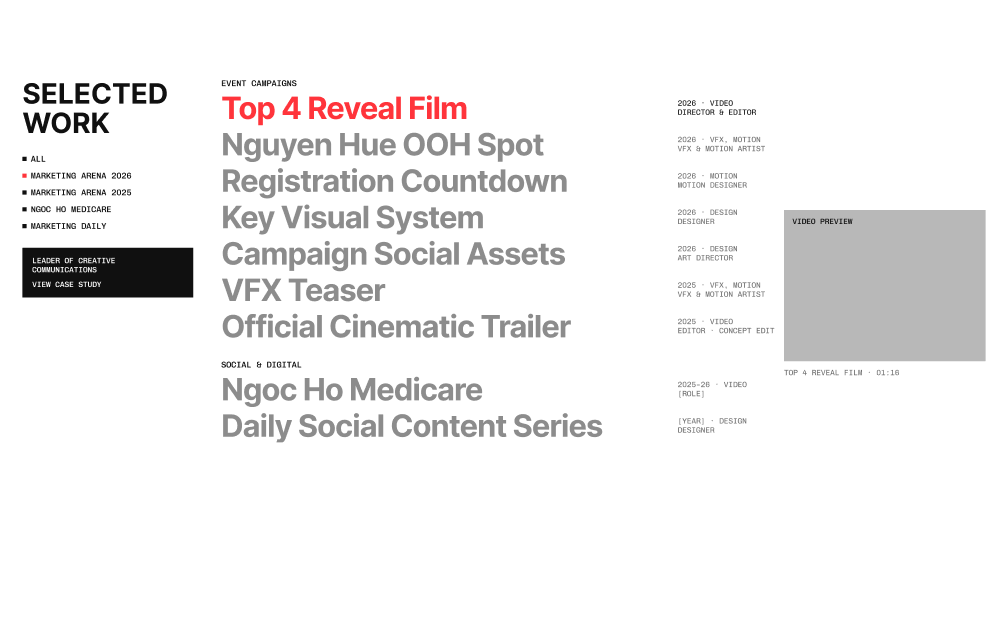
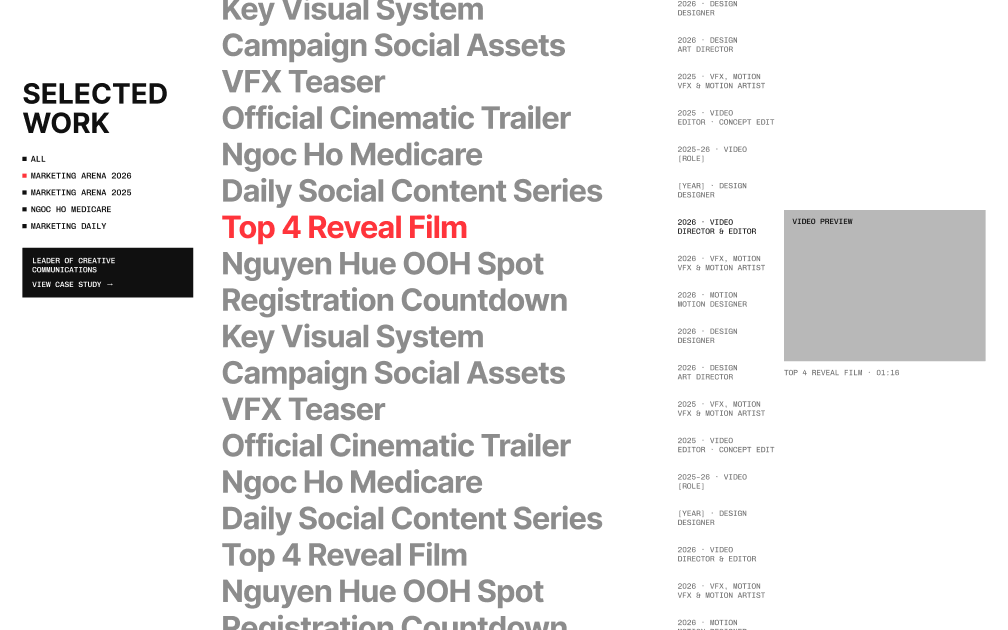
T-04: cho list du an lap vong

diff --git a/docs/02-plan.md b/docs/02-plan.md
@@ -24,7 +24,7 @@ Contact là phần cuối của mọi trang, không tách trang riêng. Không l
 ## Trang Work
 
 1. **Hero:** dựng theo mục "Hero theo noartmusic.com" bên dưới.
-2. **Selected Work:** list chữ lớn theo kiểu Casey, thay cho lưới thẻ và nút Gallery, Full-Screen. Cột trái có tiêu đề và bộ lọc theo sự kiện, cột giữa là tên dự án kèm năm, tag, vai trò, cột phải là video xem trước. Rê chuột hoặc focus bàn phím vào tên thì chữ đổi đỏ và video đổi theo. Trên điện thoại, mỗi dòng có sẵn thumbnail. List không chạy vòng lặp, cuộn trang vẫn bình thường.
+2. **Selected Work:** list chữ lớn theo kiểu Casey, thay cho lưới thẻ và nút Gallery, Full-Screen. Cột trái có tiêu đề và bộ lọc theo sự kiện, cột giữa là tên dự án kèm năm, tag, vai trò, cột phải là video xem trước. Rê chuột hoặc focus bàn phím vào tên thì chữ đổi đỏ và video đổi theo. List lặp vô hạn như Casey: section ghim trong một quãng cuộn ngắn rồi nhả ra để xuống Contact. Trên điện thoại, list không lặp và mỗi dòng có sẵn thumbnail. Bàn phím chỉ đi qua 9 dự án một lần. Reduced-motion: list đứng yên.
 3. **Contact.**
 
 Trang chủ chỉ hiện nhóm Event Campaigns và Social & Digital. Playground có mục riêng trên menu nên không lặp lại ở đây.
